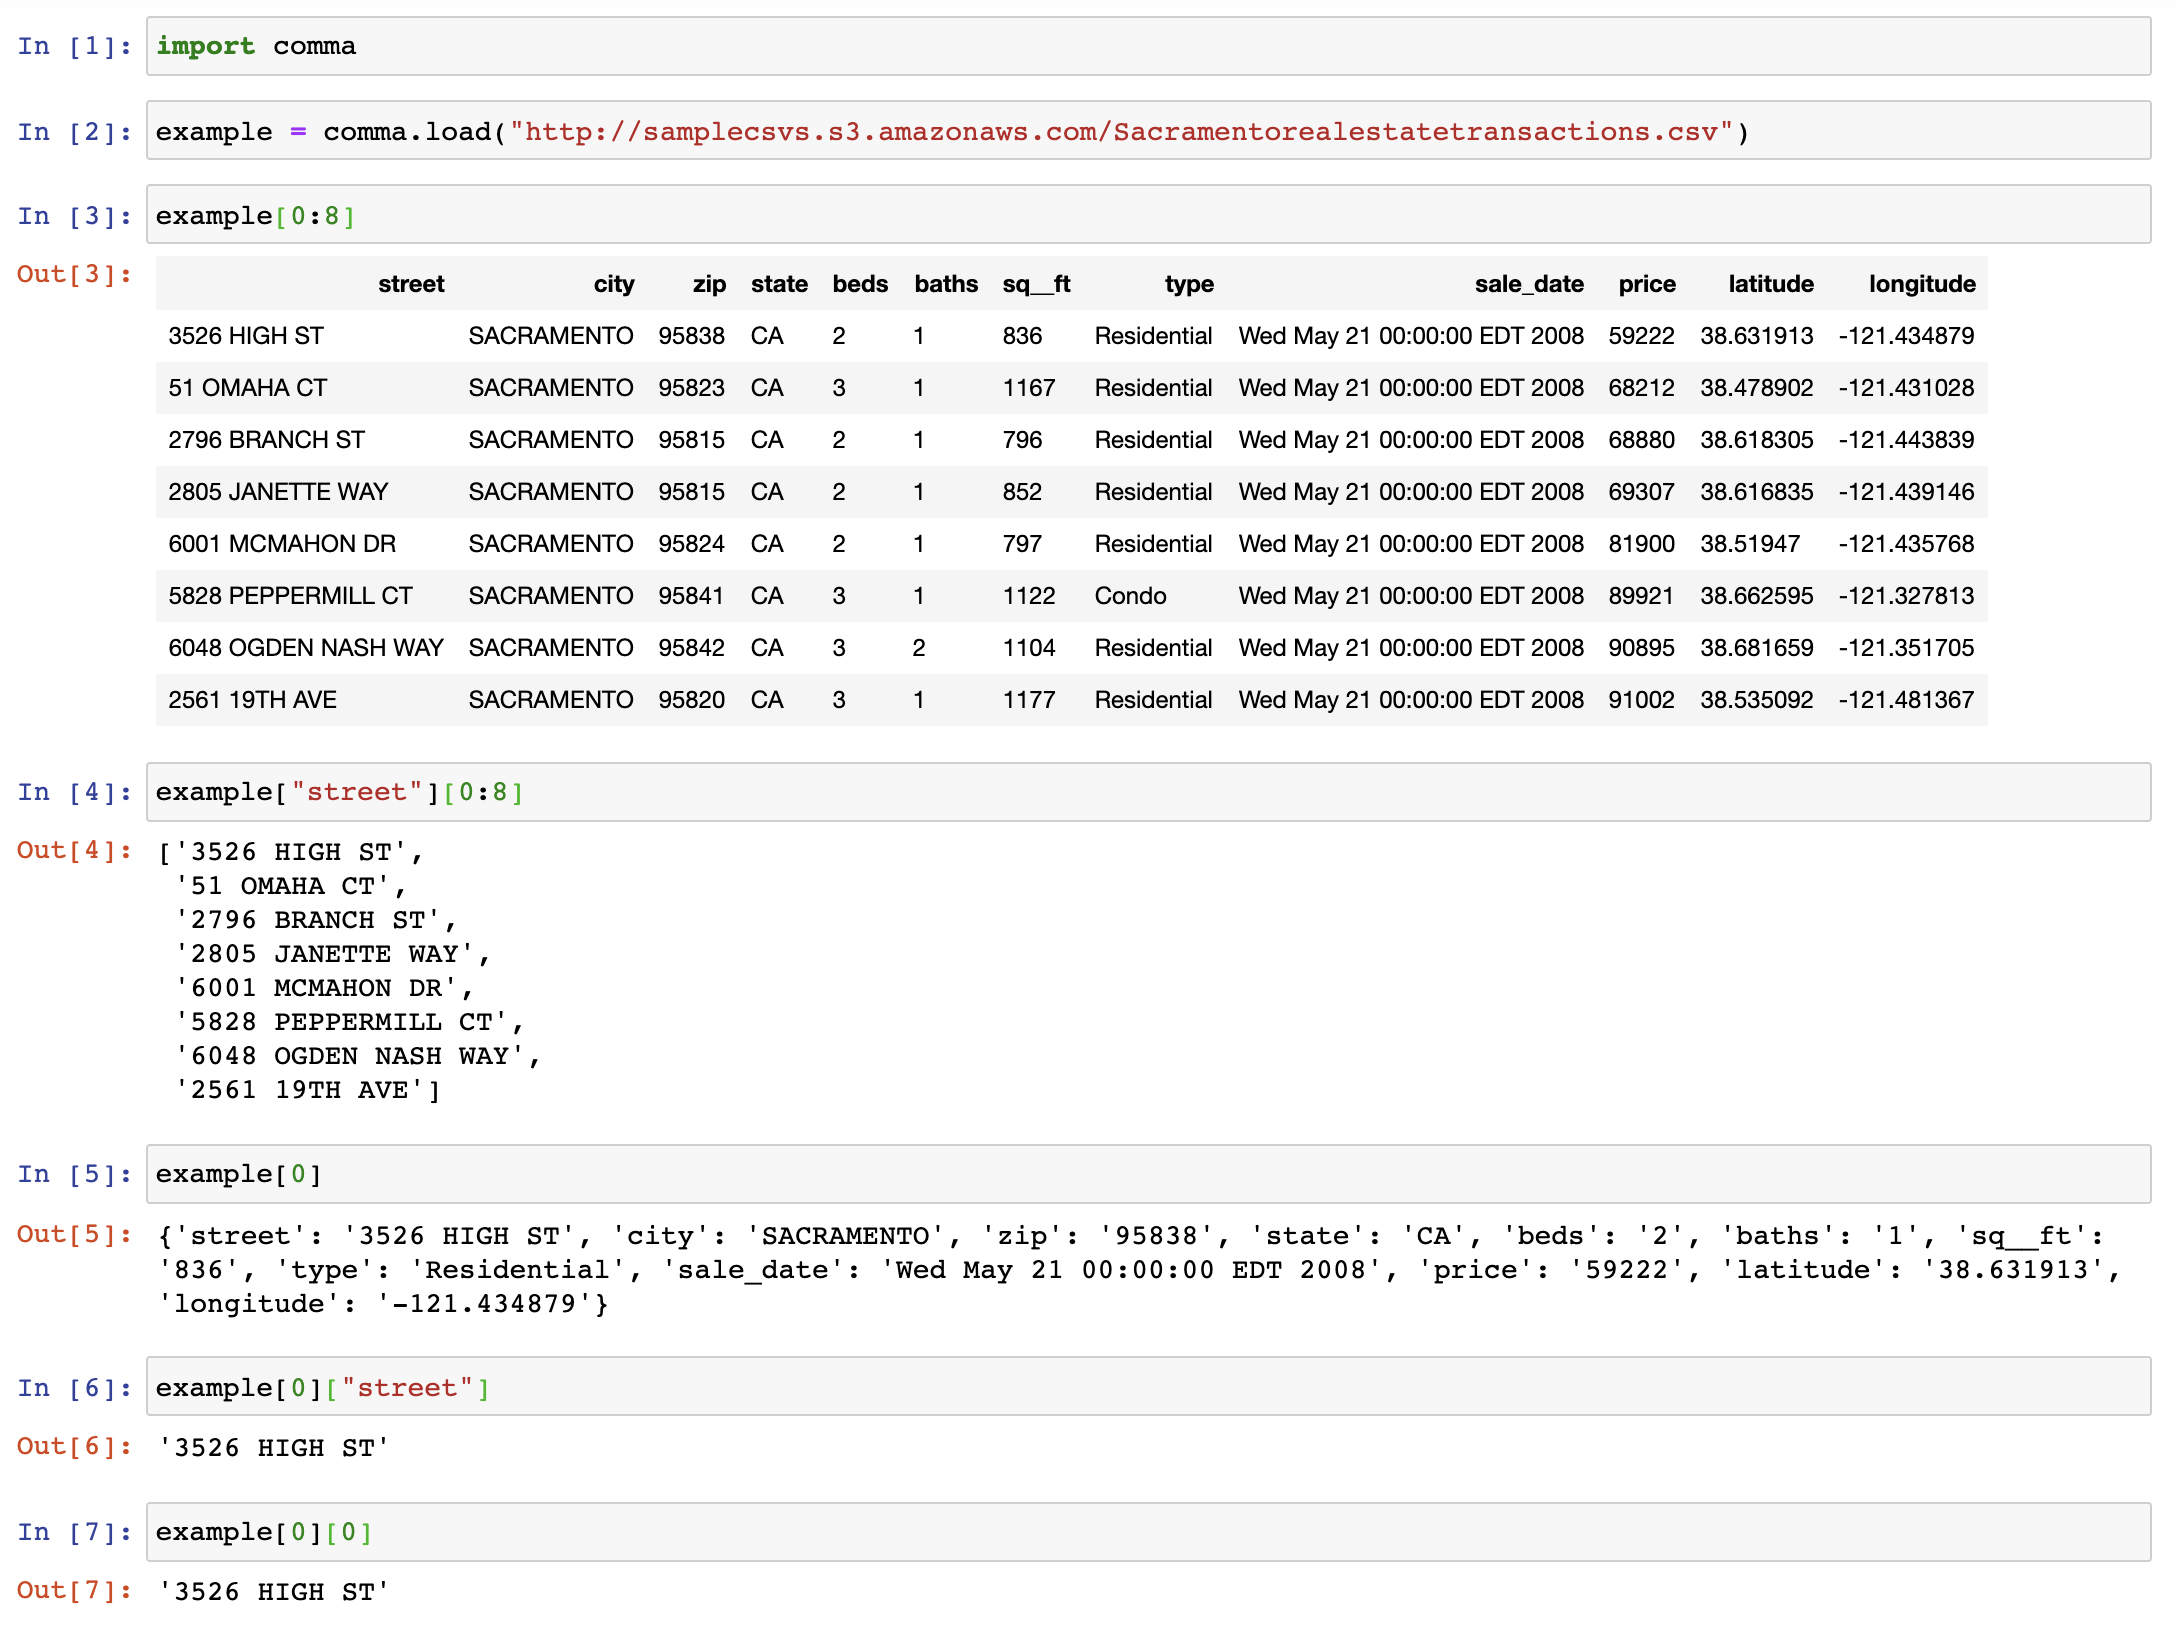
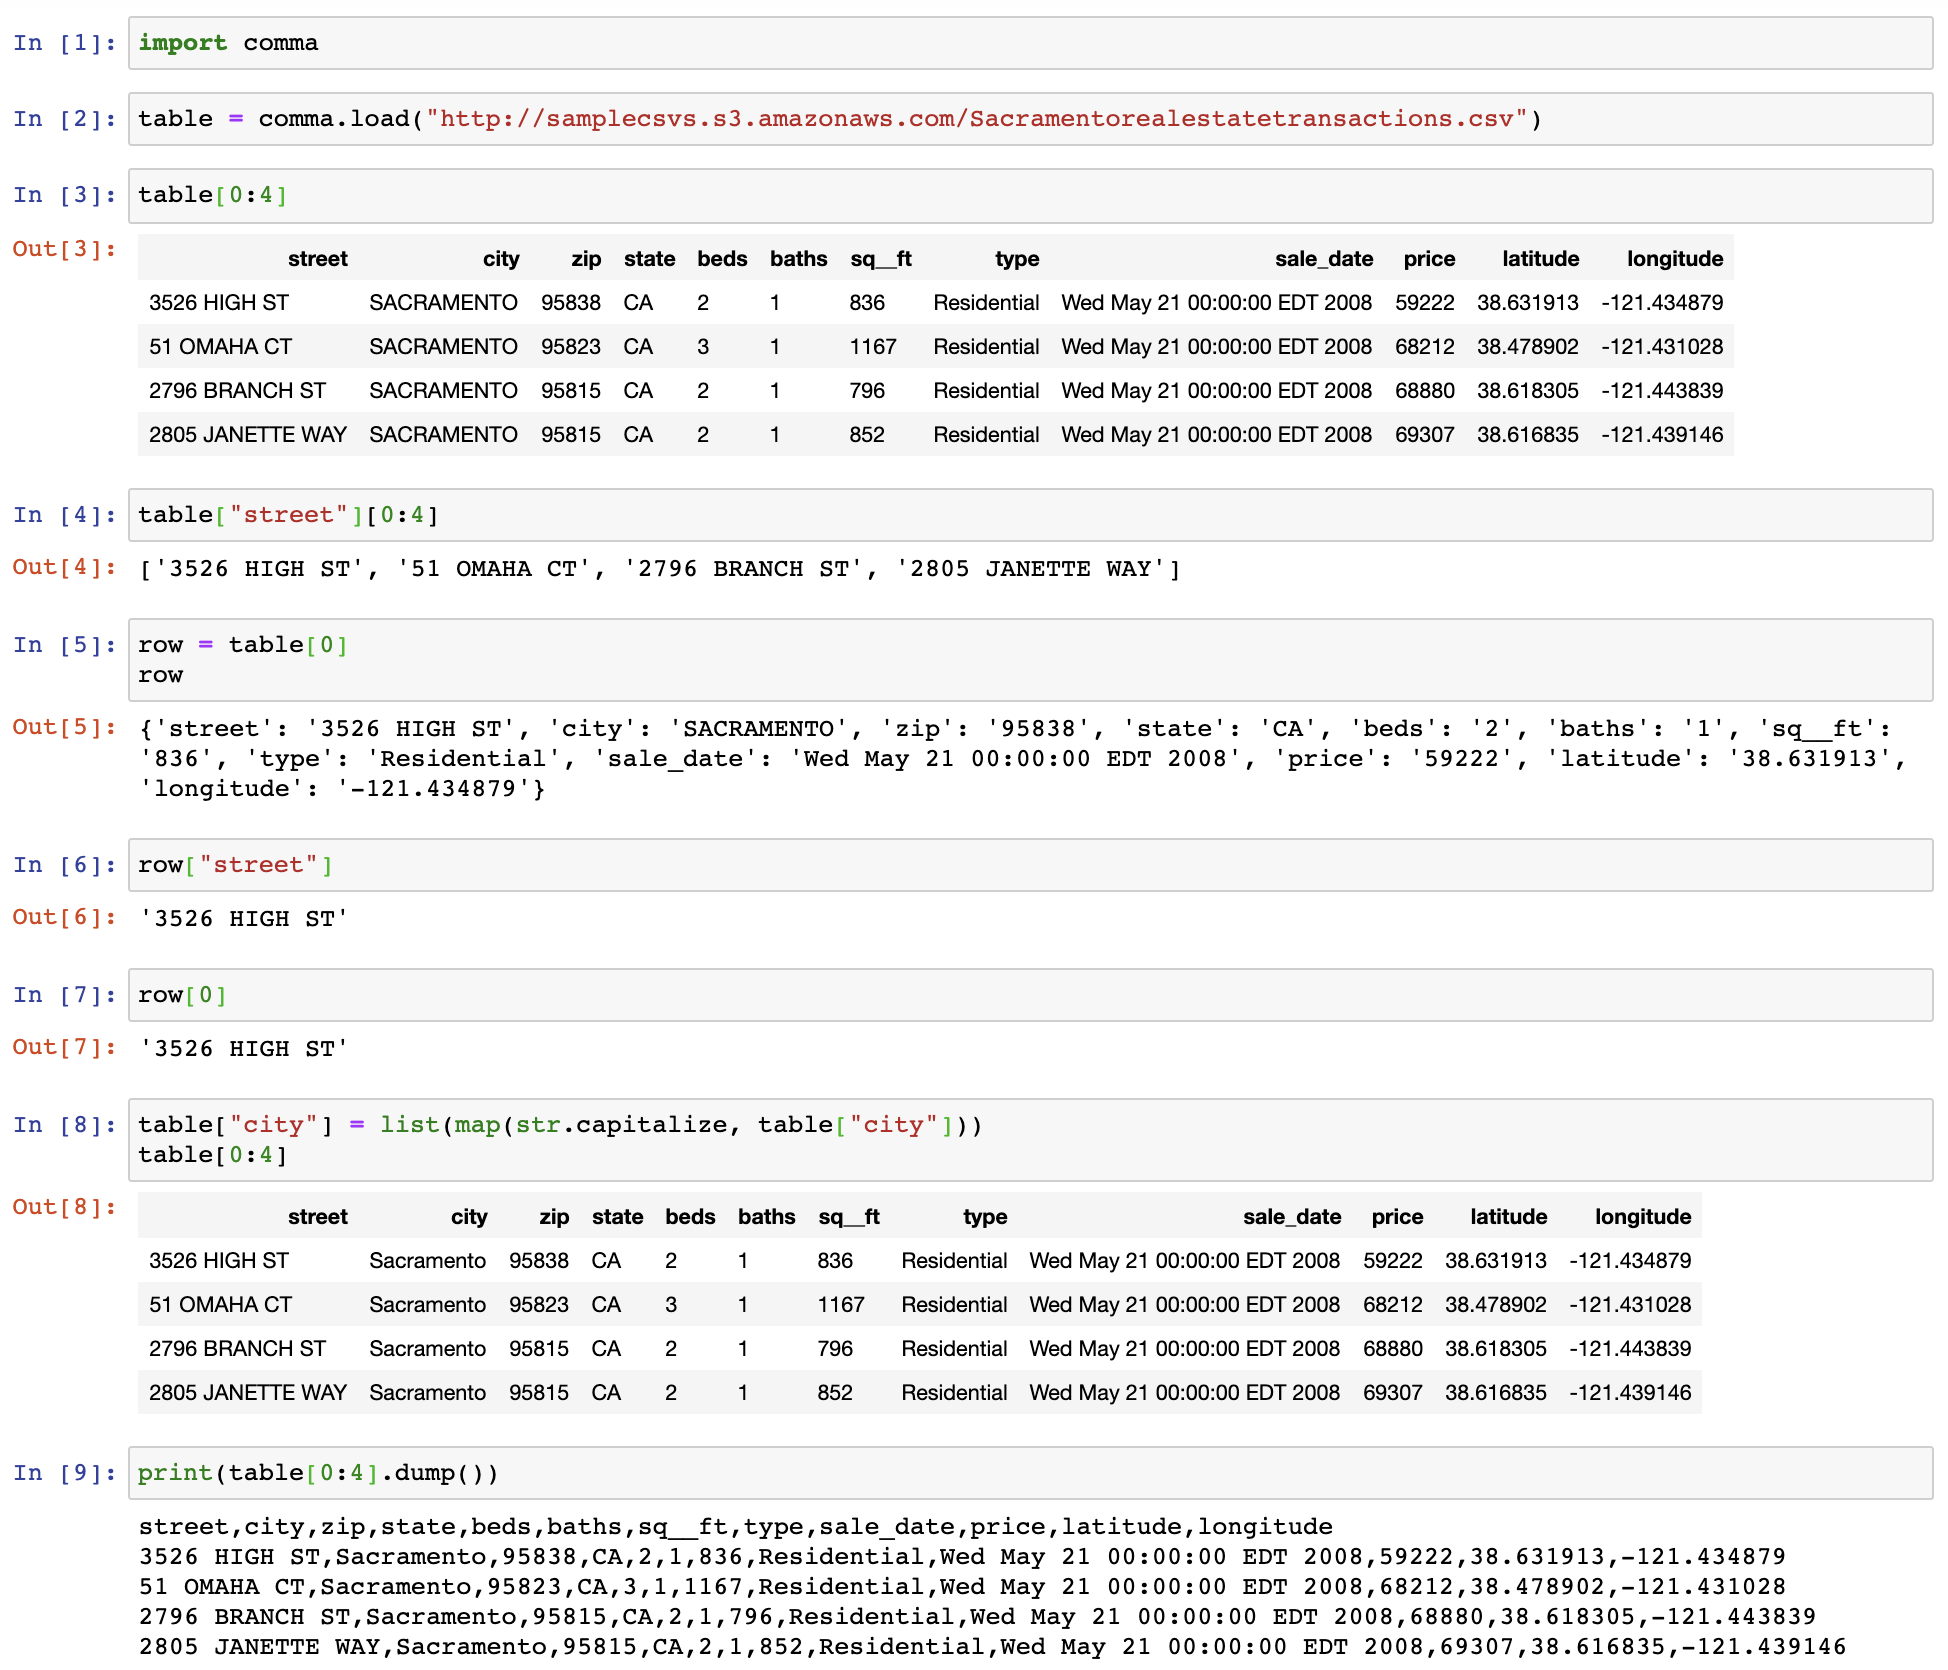
Improved README.md and example, v0.5.2 so changes go to PyPI

Changed region(s): [[0.0, 0.0, 1.0, 0.9988], [0.4004, 0.8115, 0.4312, 0.8427]]

diff --git a/comma/__init__.py b/comma/__init__.py
@@ -3,7 +3,7 @@
 Library to make CSV reading/writing fun and enjoyable!
 """
 
-__version__ = "0.5.1"
+__version__ = "0.5.2"
 __author__ = "Jérémie Lumbroso <lumbroso@cs.princeton.edu>"
 
 version_info = tuple(int(v) if v.isdigit() else v for v in __version__.split('.'))

diff --git a/tests/test_comma.py b/tests/test_comma.py
@@ -4,7 +4,7 @@ import re
 import comma
 
 
-VERSION_NUMBER = "0.5.1"
+VERSION_NUMBER = "0.5.2"
 POETRY_FILE = "pyproject.toml"
 
 

diff --git a/README.md b/README.md
@@ -10,6 +10,20 @@ This library tries to make manipulating CSV files a great experience.
 
 ![Example session](https://raw.githubusercontent.com/jlumbroso/comma/master/example-screenshot.png)
 
+## Features
+
+Here are some of the features that `comma` supports:
+
+- Robust autodetection of CSV parameters
+(thanks to [`clevercsv`](https://github.com/alan-turing-institute/CleverCSV)) and
+encoding (thanks to [`chardet`](https://github.com/chardet/chardet)).
+- Single-line usage, `comma.load(...)`, no syntax to remember or parameters to tweak.
+- Simple, Pythonic interface to access/modify the rows using standard `list` and
+`dict` operations, i.e. `row[0]` and `row["street"]` are equivalent.
+- Column slices using the header name, i.e. `table["street"]`.
+- In-place editing of the dataset, including multiple lines.
+- Opening files directly from an URL.
+
 ## Installation
 
 If you use pip:
@@ -41,7 +55,7 @@ means to load content from files in those respective formats to a
 nested Python object, for the CSV format,
 [the standard library](https://www.python.org/dev/peps/pep-0305/) has
 you use an iterator to access the data. Many details require significant
-syntax change (for instance the difference between have lists or
+syntax change (for instance the difference between having lists or
 dictionaries depends on the class that is used to read the file).
 
 Since then, we also have several excellent libraries that, by providing
